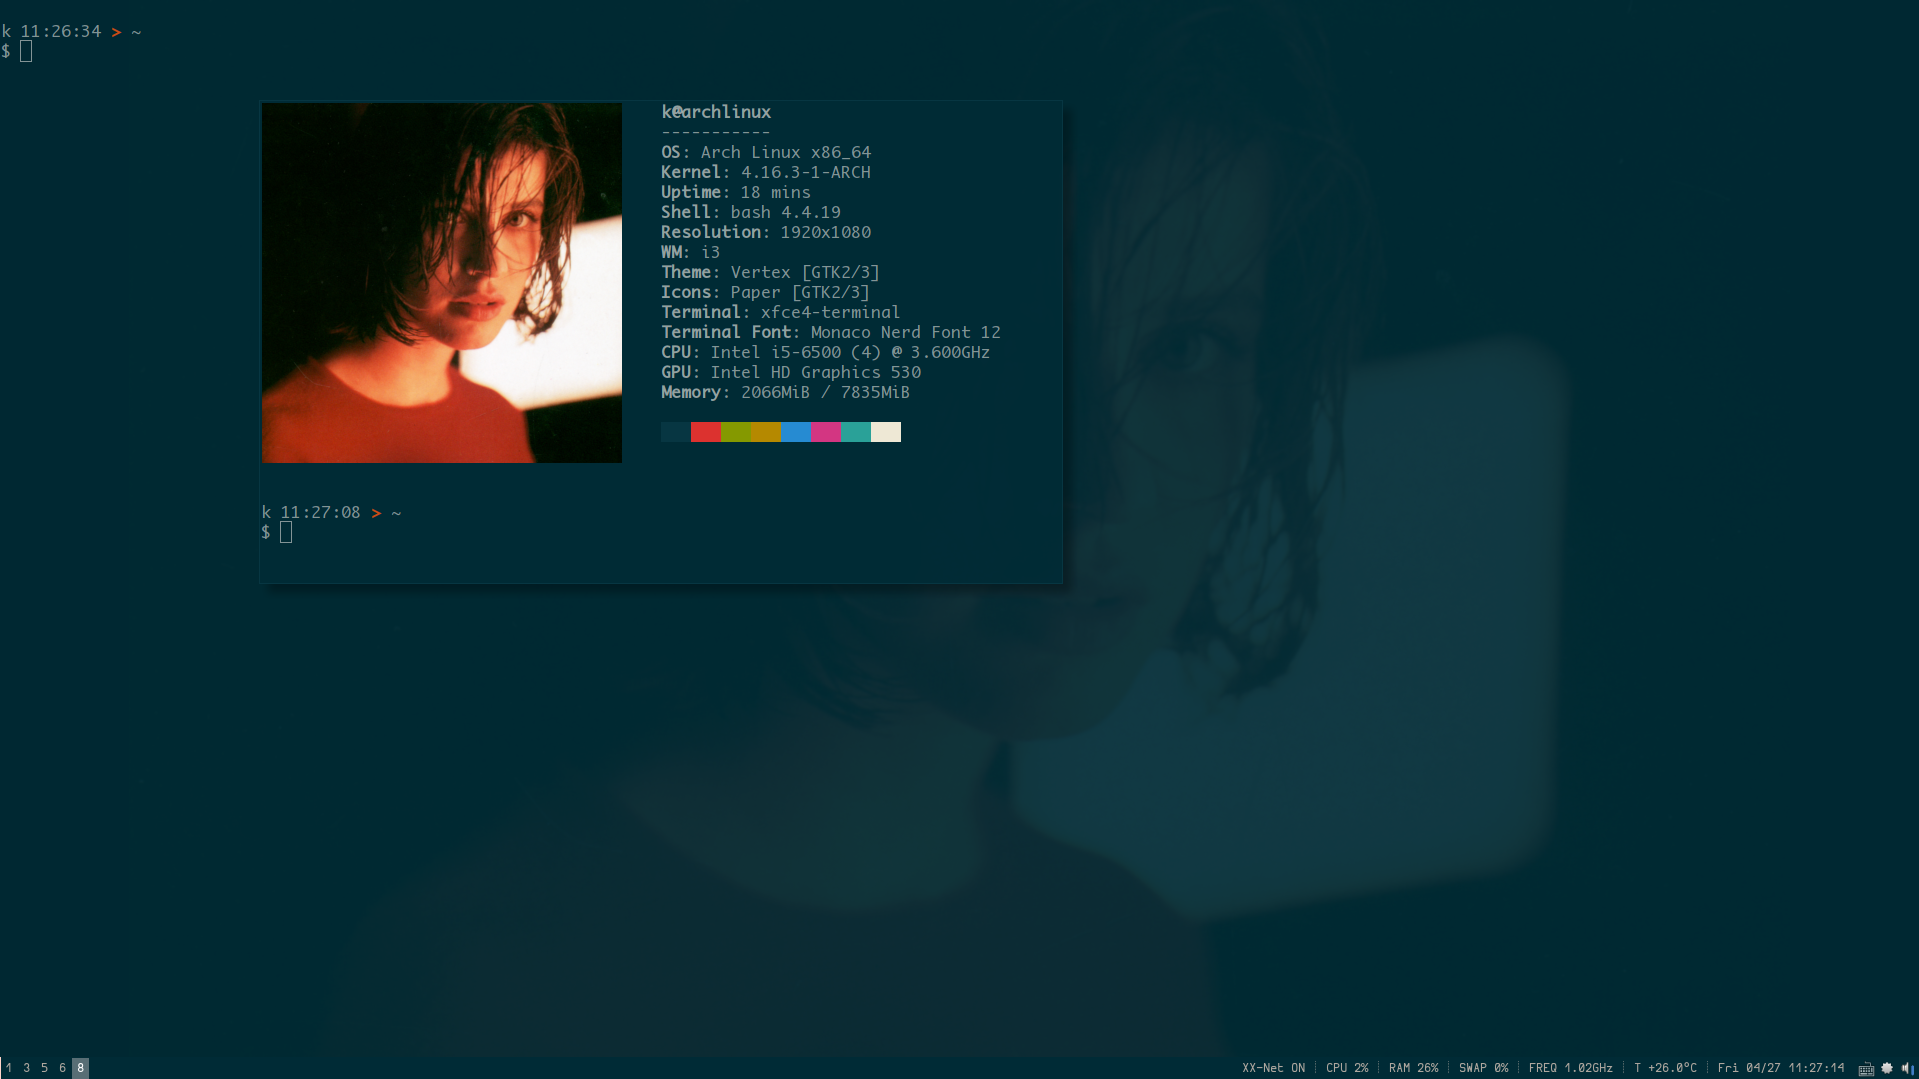
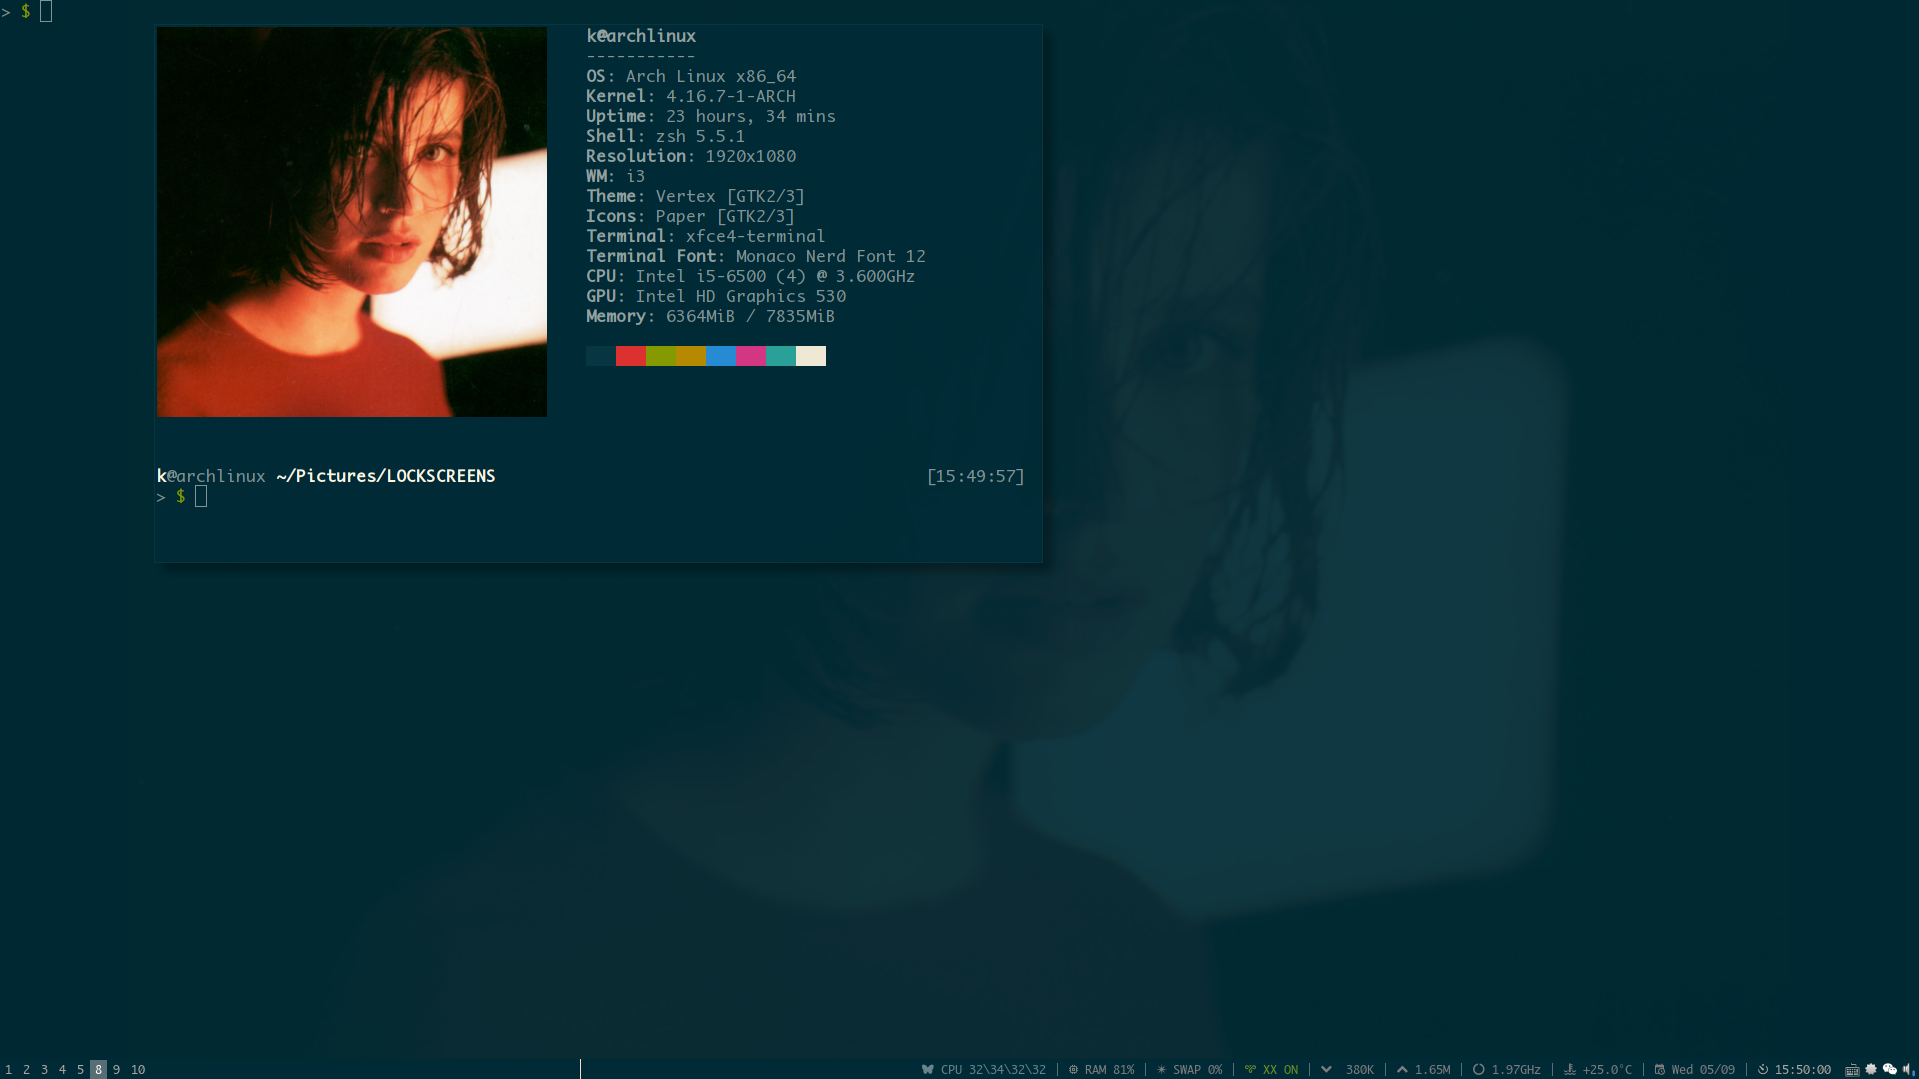
:pill: make acpyve compatible with zsh; more intro; change pics; mvdir vim

diff --git a/README.md b/README.md
@@ -9,6 +9,7 @@
    * [ArchLinux安装](#archlinux安装)
    * [软件批量安装](#软件批量安装)
    * [Vim及插件安装](#vim及插件安装)
+   * [Vim-YouCompleteMe插件编译安装](#youcompleteme编译安装)
 * [工具脚本部分](#工具脚本部分)
    * [Python虚拟环境快速切换](#python虚拟环境快速切换)
    * [aria2管理&amp;自动更新bt-tracker](#aria2管理自动更新bt-tracker)
@@ -30,25 +31,28 @@
 
 ## Usage
 
-
-在repo根目录，执行[install.sh](./install.sh)，选择所需的功能，根据提示进行操作
-```bash
-git clone https://github.com/Karmenzind/dotfiles-and-scripts --depth=1
-cd ./dotfiles-and-scripts
-./install.sh  
-```
-
-:exclamation: **注意：** 
-除了下文单独列举的（如Arch安装第一步）一些功能之外，其他脚本都建议从install.sh统一执行，否则可能出错
+- **安装ArchLinux或软件**：在repo根目录，运行[install.sh](./install.sh)，选择所需的功能，根据提示进行操作
+    ```bash
+    git clone https://github.com/Karmenzind/dotfiles-and-scripts --depth=1
+    cd ./dotfiles-and-scripts
+    ./install.sh  
+    ```
+    :exclamation: 注意：除了下文单独列举的（如Arch安装第一步）一些功能之外，其他脚本都建议从install.sh统一执行，否则可能出错
+- **使用我的[Vim配置](./home_k/.vimrc)**：Unix环境直接运行以下命令，等待自动安装完成即可
+    ```bash
+    wget https://raw.githubusercontent.com/Karmenzind/dotfiles-and-scripts/master/home_k/.vimrc -O ~/.vimrc && vim 
+    ```
+- 其他软件配置、工具脚本请手动拷贝
 
 
 ## 配置文件部分
 
-不介绍，按需拷贝
+不介绍，按需选择
+
 > trees are generated by [this script](./utils/build_trees.sh)
 
 - [home](./home_k)
-	- [.vimrc](./vim/.vimrc)
+	- [.vimrc](./home_k/.vimrc)
 	- [.config](./home_k/.config)
 		- [aria2](./home_k/.config/aria2)
 		- [compton.conf](./home_k/.config/compton.conf)
@@ -78,7 +82,7 @@ cd ./dotfiles-and-scripts
 
 **使用前提：**
 *   熟悉ArchLinux安装和Bash语法
-*   一块独立硬盘（暂不兼容和其他系统混装）
+*   一块独立硬盘（暂不兼容和其他系统在同一硬盘混装）
 *   设备支持UEFI（采用GPT分区，后续可能会加入MBR支持）
 *   手动配置网络（暂不提供网络配置，请参考ArchWiki）
 
@@ -112,7 +116,7 @@ recommended table:
     wget https://raw.githubusercontent.com/Karmenzind/dotfiles-and-scripts/master/scripts/install_arch/livecd_part.sh
     ./livecd_part.sh
     ```
-    进入arch-chroot后，按照[Usage](#usage)clone整个项目，执行`chrooted part`。
+    进入arch-chroot后，按照[Usage](#usage)介绍clone整个项目，执行`chrooted part`。
 3. `chrooted part`执行结束后，重启，取出存储介质，从系统盘进入Arch。
 4. 至此Arch系统已经安装完成，后续步骤为系统常用配置，对应了ArchWiki中的[General Recommendations部分](https://wiki.archlinux.org/index.php/General_recommendations)，其中图形环境部分单独分成一步。参考[Usage](#usage)分别执行`general recommendations part`、`graphical environment part`。如果需要批量安装其他软件，则查看下一节。
 
@@ -134,6 +138,8 @@ Vim比较特殊，尤其是YCM经常安装失败，所以单独列出来
 
 - [complete installation](./scripts/install_vim/main.sh) 直接按照我的Vim配置一键安装Vim和各种插件，无需其他配置
 - [compile and install YouCompleteMe](./scripts/install_vim/ycm.sh) YouCompleteMe插件编译安装
+
+### YouCompleteMe编译安装
 
 通过install.sh**选择第四项单独安装YouCompleteMe插件**时，需要注意：
 1.  阅读ycm.sh的开头部分
